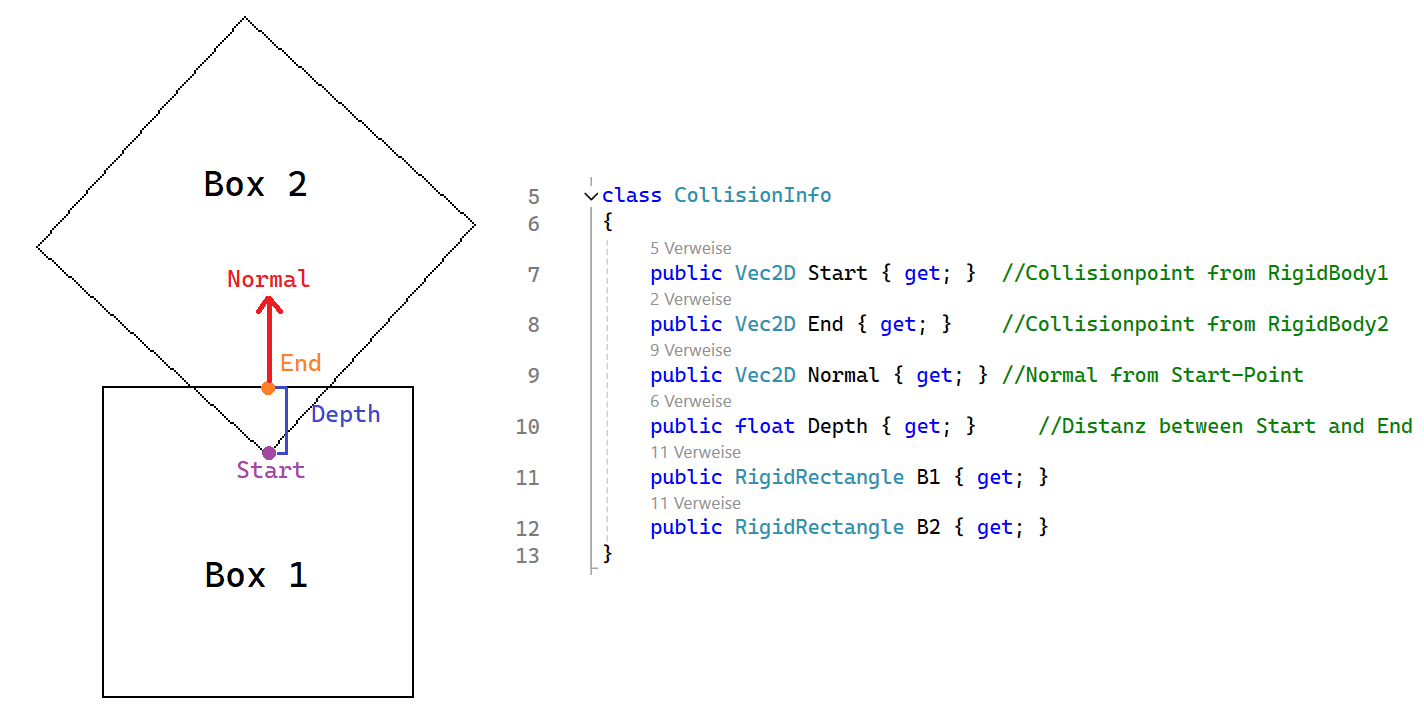
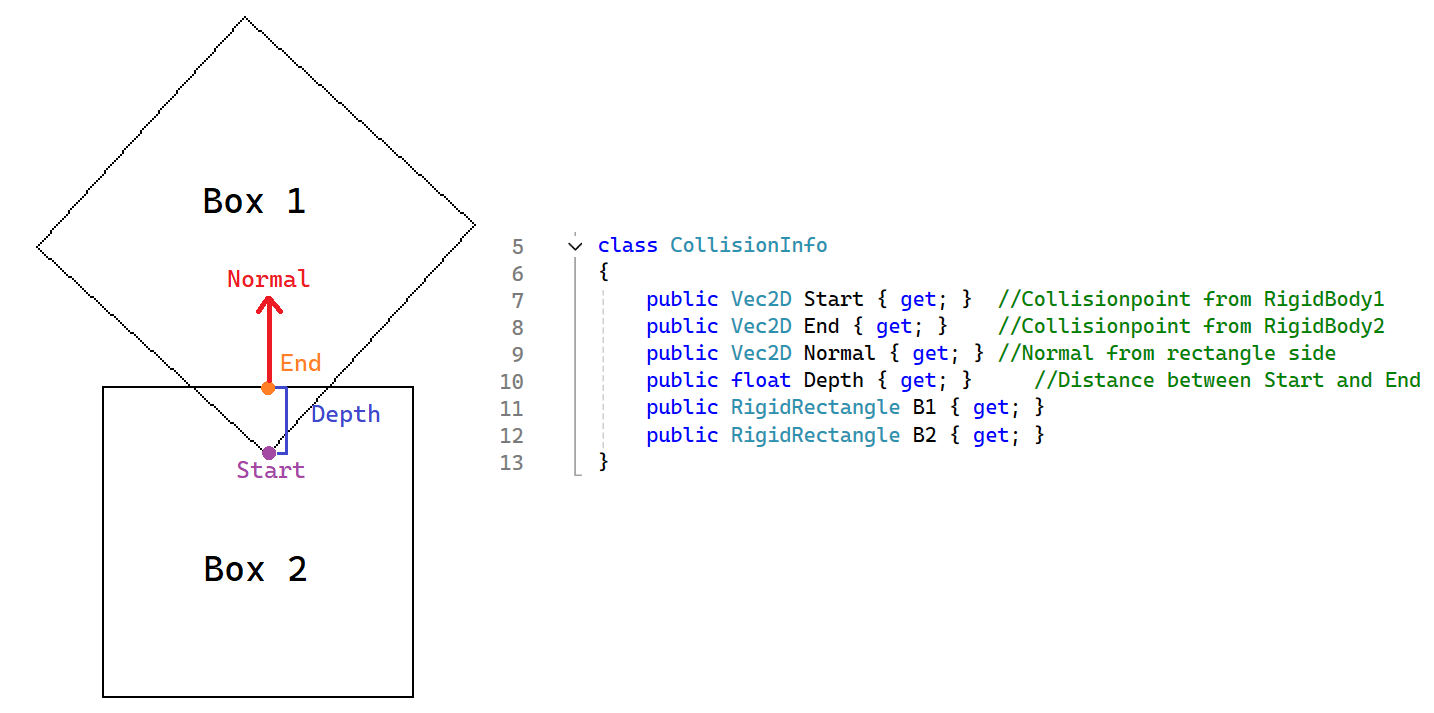
Update Image+Comment

diff --git a/Source/Physics/CollisionDetection/CollisionInfo.cs b/Source/Physics/CollisionDetection/CollisionInfo.cs
@@ -6,8 +6,8 @@ namespace Physics.CollisionDetection
     {
         public Vec2D Start { get; }  //Collisionpoint from RigidBody1
         public Vec2D End { get; }    //Collisionpoint from RigidBody2
-        public Vec2D Normal { get; } //Normal from Start-Point
-        public float Depth { get; }     //Distanz between Start and End
+        public Vec2D Normal { get; } //Normal from rectangle side
+        public float Depth { get; }     //Distance between Start and End
         public RigidRectangle B1 { get; }
         public RigidRectangle B2 { get; }
 
